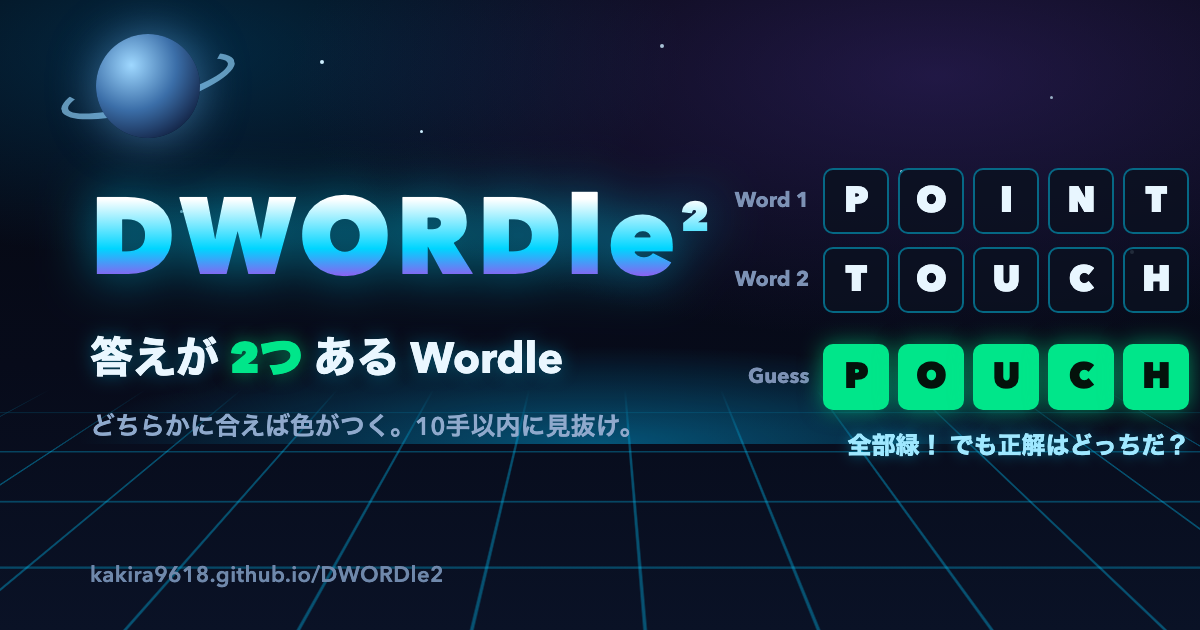
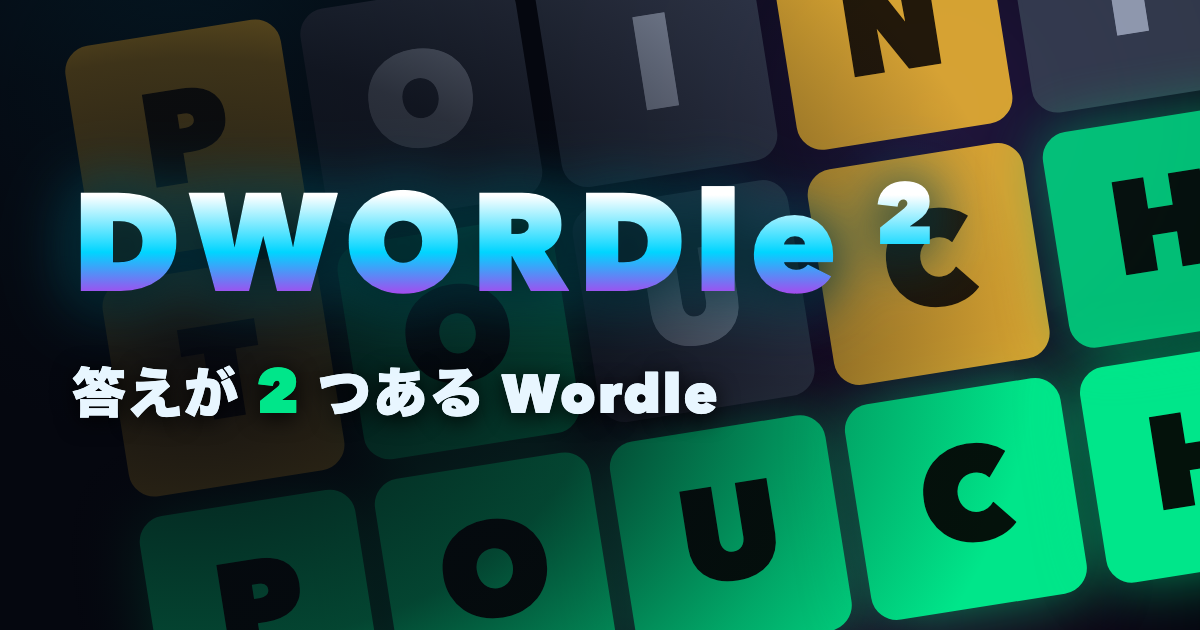
OGP画像を巨大な斜めタイルにタイトルを重ねたデザインに刷新

diff --git a/DWORDle2/tools/og.html b/DWORDle2/tools/og.html
@@ -1,0 +1,153 @@
+<!DOCTYPE html>
+<html lang="ja">
+<head>
+<meta charset="utf-8">
+<title>DWORDle 2 OGP</title>
+<style>
+  /* 1200x630 の OGP 画像。tools/make-og.mjs がスクリーンショットして og.png に保存する。
+     コンセプト: 巨大なタイルをわざと斜めに置いて一部だけ見せ、その上にタイトルを載せる。 */
+  :root {
+    --bg: #05070f;
+    --correct: #00e68a;
+    --used: #ffc233;
+    --unused: #3a4356;
+    --accent: #00d5ff;
+    --accent-2: #ff00e5;
+    --tile-size: 218px;
+    --tile-gap: 20px;
+    --board-rotate: -9deg;
+  }
+  * { margin: 0; padding: 0; box-sizing: border-box; }
+  body {
+    width: 1200px;
+    height: 630px;
+    overflow: hidden;
+    position: relative;
+    background: var(--bg);
+    font-family: "Avenir Next", "Helvetica Neue", "Hiragino Sans", sans-serif;
+  }
+
+  /* 大きくふわっとした光（星は置かない） */
+  .glow {
+    position: absolute;
+    border-radius: 50%;
+    filter: blur(6px);
+    pointer-events: none;
+  }
+  .glow.g1 { left: -180px; top: -260px; width: 720px; height: 720px;
+    background: radial-gradient(circle, rgba(0, 213, 255, 0.20), transparent 68%); }
+  .glow.g2 { right: -140px; top: -300px; width: 820px; height: 820px;
+    background: radial-gradient(circle, rgba(150, 80, 255, 0.20), transparent 68%); }
+  .glow.g3 { left: 340px; bottom: -420px; width: 900px; height: 900px;
+    background: radial-gradient(circle, rgba(255, 0, 229, 0.12), transparent 68%); }
+
+  /* 巨大タイル盤面: 斜めに傾け、キャンバスから大きくはみ出させる */
+  .board {
+    position: absolute;
+    left: 50%;
+    top: 50%;
+    transform: translate(-42%, -52%) rotate(var(--board-rotate));
+    display: grid;
+    gap: var(--tile-gap);
+  }
+  .row { display: flex; gap: var(--tile-gap); }
+  .tile {
+    width: var(--tile-size);
+    height: var(--tile-size);
+    border-radius: 26px;
+    display: flex;
+    align-items: center;
+    justify-content: center;
+    font-size: 132px;
+    font-weight: 900;
+    color: #e8f6ff;
+    background: rgba(14, 20, 38, 0.85);
+    border: 4px solid rgba(0, 213, 255, 0.35);
+  }
+  .tile.unused { background: var(--unused); border-color: var(--unused); color: #aab6cc; }
+  .tile.used { background: var(--used); border-color: var(--used); color: #241a02; }
+  .tile.correct {
+    background: var(--correct);
+    border-color: var(--correct);
+    color: #04120b;
+    box-shadow: 0 0 60px rgba(0, 230, 138, 0.55);
+  }
+  .row.dim { opacity: 0.82; }
+
+  /* タイトルを読ませるための左側のシェード */
+  .shade {
+    position: absolute;
+    inset: 0;
+    background: radial-gradient(95% 130% at 16% 56%,
+      rgba(5, 7, 15, 0.94) 0%,
+      rgba(5, 7, 15, 0.72) 36%,
+      rgba(5, 7, 15, 0.28) 58%,
+      rgba(5, 7, 15, 0) 74%);
+  }
+
+  .copy {
+    position: absolute;
+    left: 72px;
+    top: 50%;
+    transform: translateY(-54%);
+  }
+  .logo {
+    font-size: 138px;
+    font-weight: 900;
+    letter-spacing: 0.06em;
+    line-height: 1;
+    background: linear-gradient(180deg, #fff 15%, var(--accent) 55%, var(--accent-2) 100%);
+    -webkit-background-clip: text;
+    background-clip: text;
+    color: transparent;
+    filter: drop-shadow(0 6px 26px rgba(0, 0, 0, 0.85)) drop-shadow(0 0 26px rgba(0, 213, 255, 0.4));
+  }
+  .logo .two { font-size: 0.62em; vertical-align: super; }
+  .tagline {
+    margin-top: 34px;
+    font-size: 54px;
+    font-weight: 800;
+    color: #e8f6ff;
+    letter-spacing: 0.04em;
+    text-shadow: 0 4px 22px rgba(0, 0, 0, 0.9);
+  }
+  .tagline .num { color: var(--correct); font-size: 1.15em; }
+</style>
+</head>
+<body>
+  <div class="glow g1"></div>
+  <div class="glow g2"></div>
+  <div class="glow g3"></div>
+
+  <div class="board">
+    <div class="row dim">
+      <div class="tile used">P</div>
+      <div class="tile unused">O</div>
+      <div class="tile unused">I</div>
+      <div class="tile used">N</div>
+      <div class="tile unused">T</div>
+    </div>
+    <div class="row dim">
+      <div class="tile used">T</div>
+      <div class="tile correct">O</div>
+      <div class="tile unused">U</div>
+      <div class="tile used">C</div>
+      <div class="tile correct">H</div>
+    </div>
+    <div class="row">
+      <div class="tile correct">P</div>
+      <div class="tile correct">O</div>
+      <div class="tile correct">U</div>
+      <div class="tile correct">C</div>
+      <div class="tile correct">H</div>
+    </div>
+  </div>
+
+  <div class="shade"></div>
+
+  <div class="copy">
+    <div class="logo">DWORDle<span class="two"> 2</span></div>
+    <div class="tagline">答えが <span class="num">2</span> つある Wordle</div>
+  </div>
+</body>
+</html>